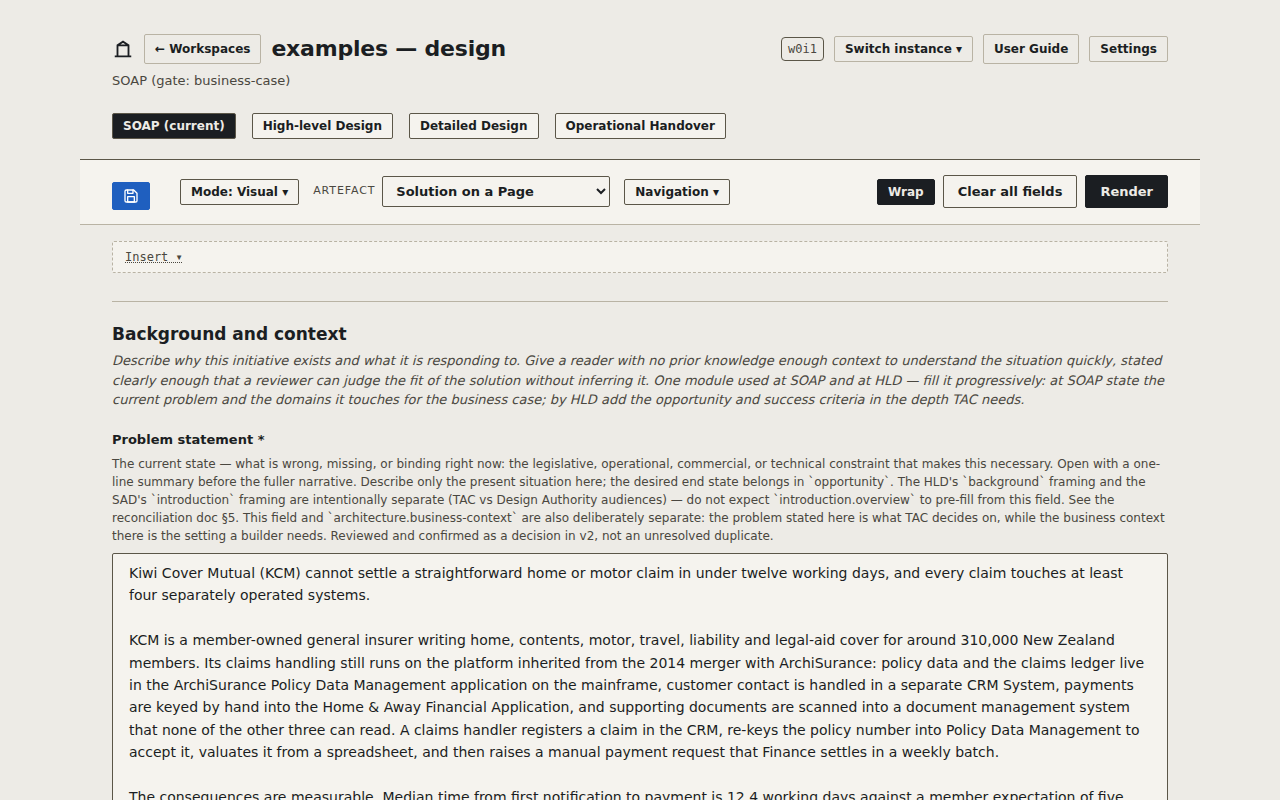
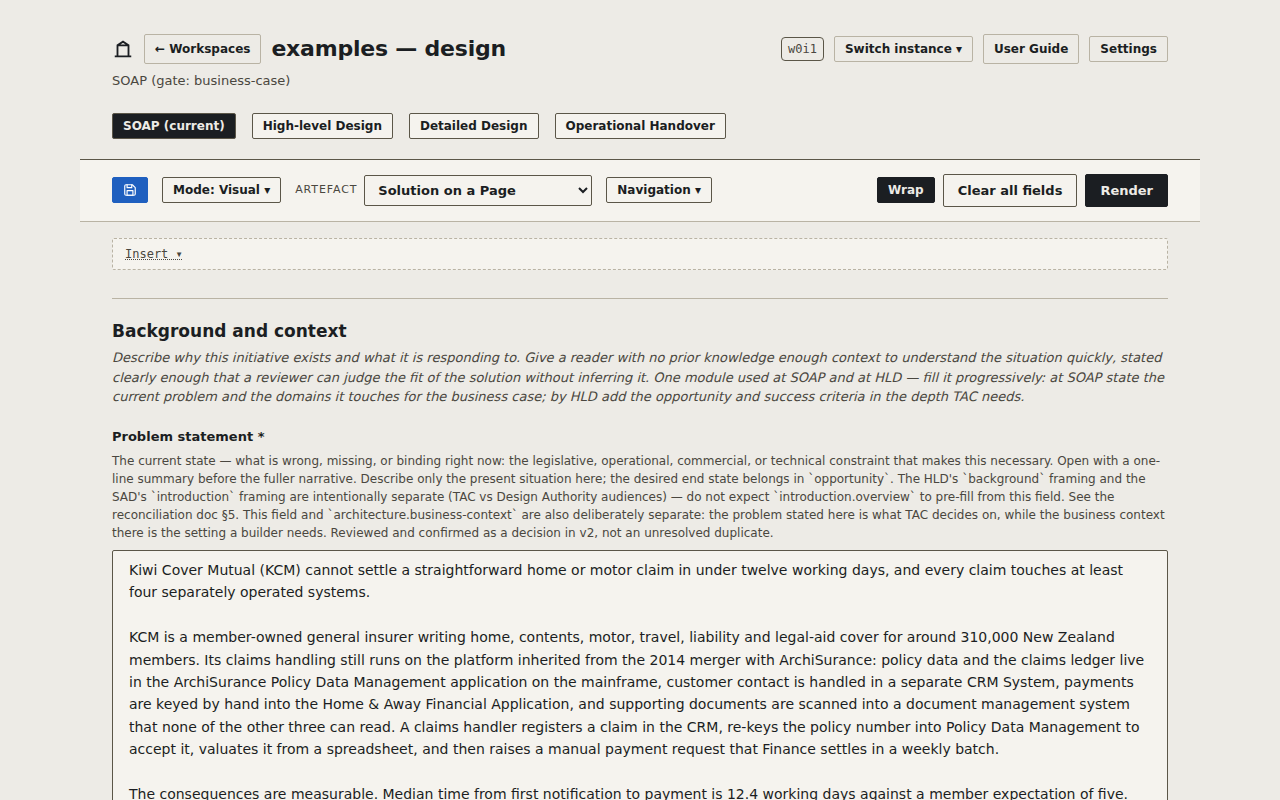
Line the Save button up with Mode, spaced like the rest of the toolbar (WI #377)
The shared .btn margin pushed the Save button below the Mode dropdown and
away from it, and the empty Saving…/Saved slot added its own gap. Reset the
margin, size the icon to the small-button line, and collapse the status
slot while it's empty. 0.6.1-beta.

Claude-Session: https://claude.ai/code/session_012rCfiUS6BvnUHQs5BK6RRc

diff --git a/tests/stage-save.playwright.test.js b/tests/stage-save.playwright.test.js
@@ -89,6 +89,12 @@ test('the Save button sits beside Mode, is ghosted until something changes, and 
     const toolbarLeft = page.locator('.toolbar-left')
     assert.equal(await toolbarLeft.locator('> *').first().locator('.stage-save-btn').count(), 1, 'Save comes first, left of the Mode dropdown')
     assert.equal(await saveButton(page).getAttribute('aria-label'), 'Save')
+    // Level with Mode, and no further from it than the toolbar's other controls are from each other (WI #377).
+    const save = await saveButton(page).boundingBox()
+    const mode = await page.locator('.view-mode-dropdown button').first().boundingBox()
+    const artefact = await page.locator('.artefact-selector').boundingBox()
+    assert.ok(Math.abs(save.y - mode.y) <= 1 && Math.abs(save.height - mode.height) <= 1, 'Save lines up with Mode')
+    assert.ok(Math.abs((mode.x - (save.x + save.width)) - (artefact.x - (mode.x + mode.width))) <= 1, 'Save sits one toolbar gap from Mode')
     await expectSaveButton(page, 'ghost')
     assert.match(await saveButton(page).getAttribute('title'), /nothing to save/)
 

diff --git a/web/style.css b/web/style.css
@@ -1598,7 +1598,10 @@ input.text-field.has-error { border-color: var(--stamp-error-bg); }
 
 /* Centralised Save (WI #376): blue only while something is unsaved. */
 .stage-save { display: inline-flex; align-items: center; gap: 8px; }
-.stage-save-btn { display: inline-flex; align-items: center; justify-content: center; padding: 4px 8px; }
+/* No .btn margin here: it would drop the button below Mode and push Mode away. */
+.stage-save-btn { display: inline-flex; align-items: center; justify-content: center; margin: 0; padding: 4px 8px; }
+.stage-save-btn svg { display: block; width: 14px; height: 14px; }
+.stage-save-state:empty { display: none; }
 .stage-save-btn.primary { background: #1F5FBF; border-color: #1F5FBF; color: #FFFFFF; }
 .stage-save-state { font-size: 0.85rem; color: var(--text-muted); white-space: nowrap; }
 .stage-save-state.error { color: var(--stamp-error-bg); white-space: normal; }

diff --git a/CHANGELOG.md b/CHANGELOG.md
@@ -17,6 +17,14 @@ build if the version in `package.json` has no entry. See
 Versions are the `package.json` version; each is tagged `v<version>` on its merge
 commit on `main`.
 
+## 0.6.1-beta — 2026-09-13
+
+### Fixed
+
+- **The Save button lines up with Mode** (WI #377). It sat lower than the
+  **Mode** dropdown beside it, with an oversized gap between them; it is now
+  level with it, spaced like the rest of the toolbar.
+
 ## 0.6.0-beta — 2026-09-13
 
 ### Changed
